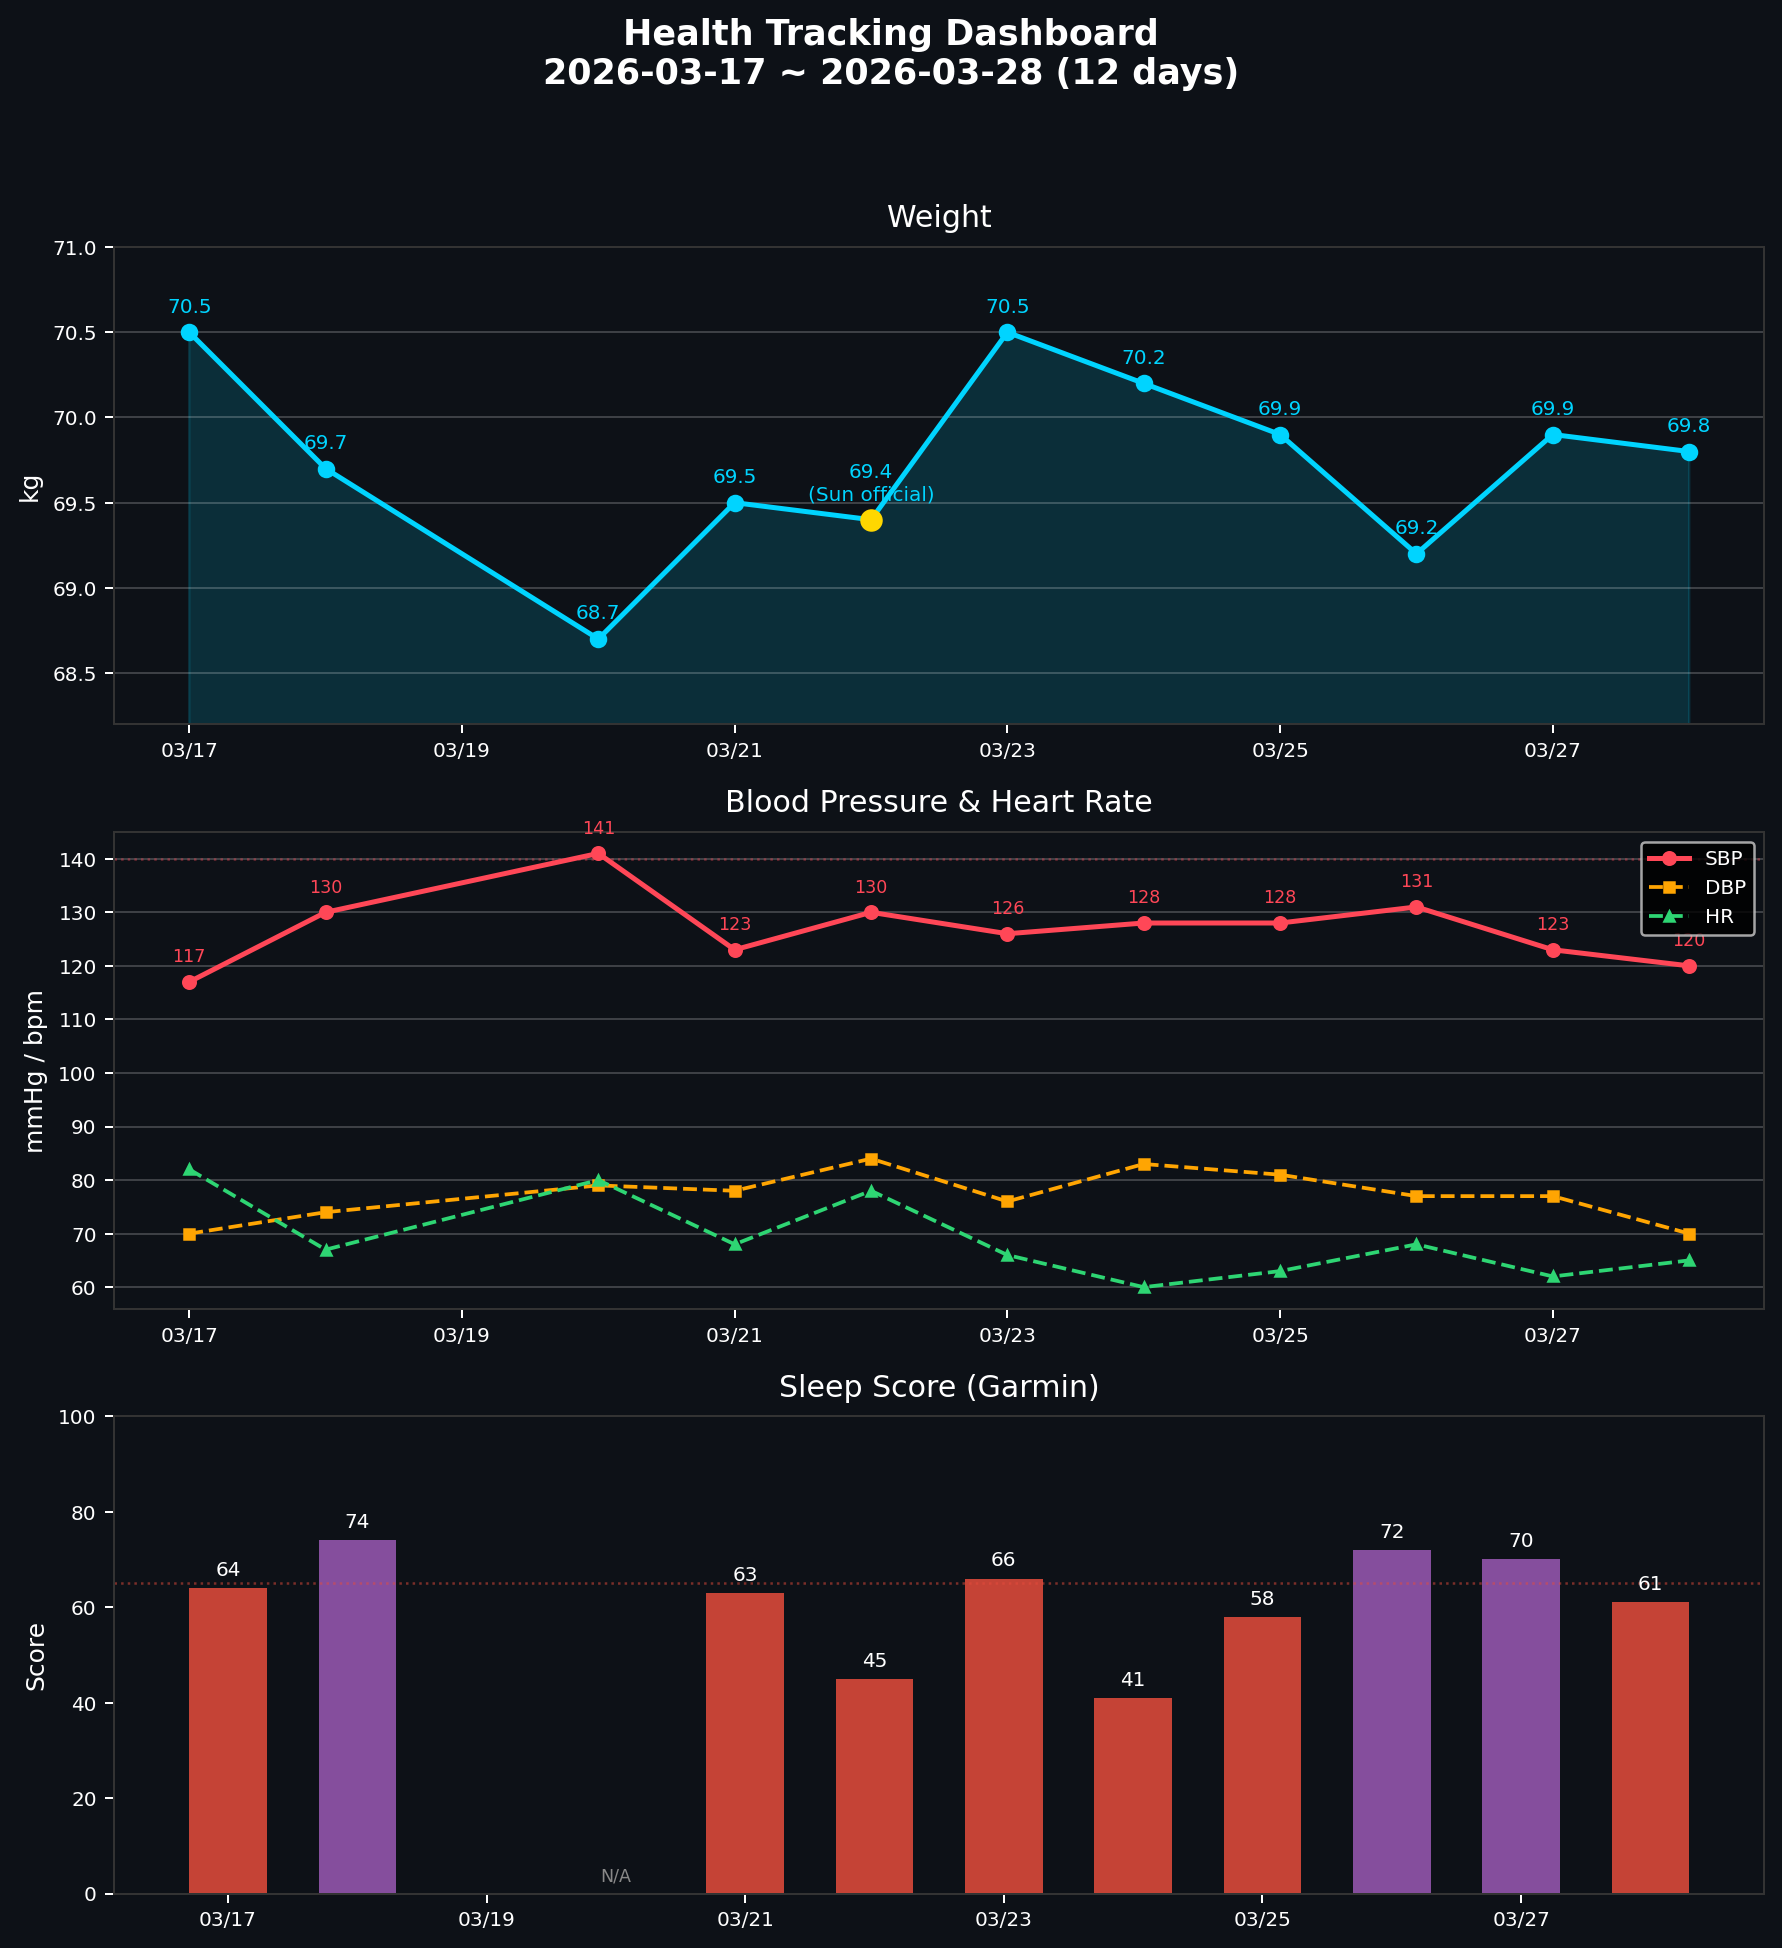
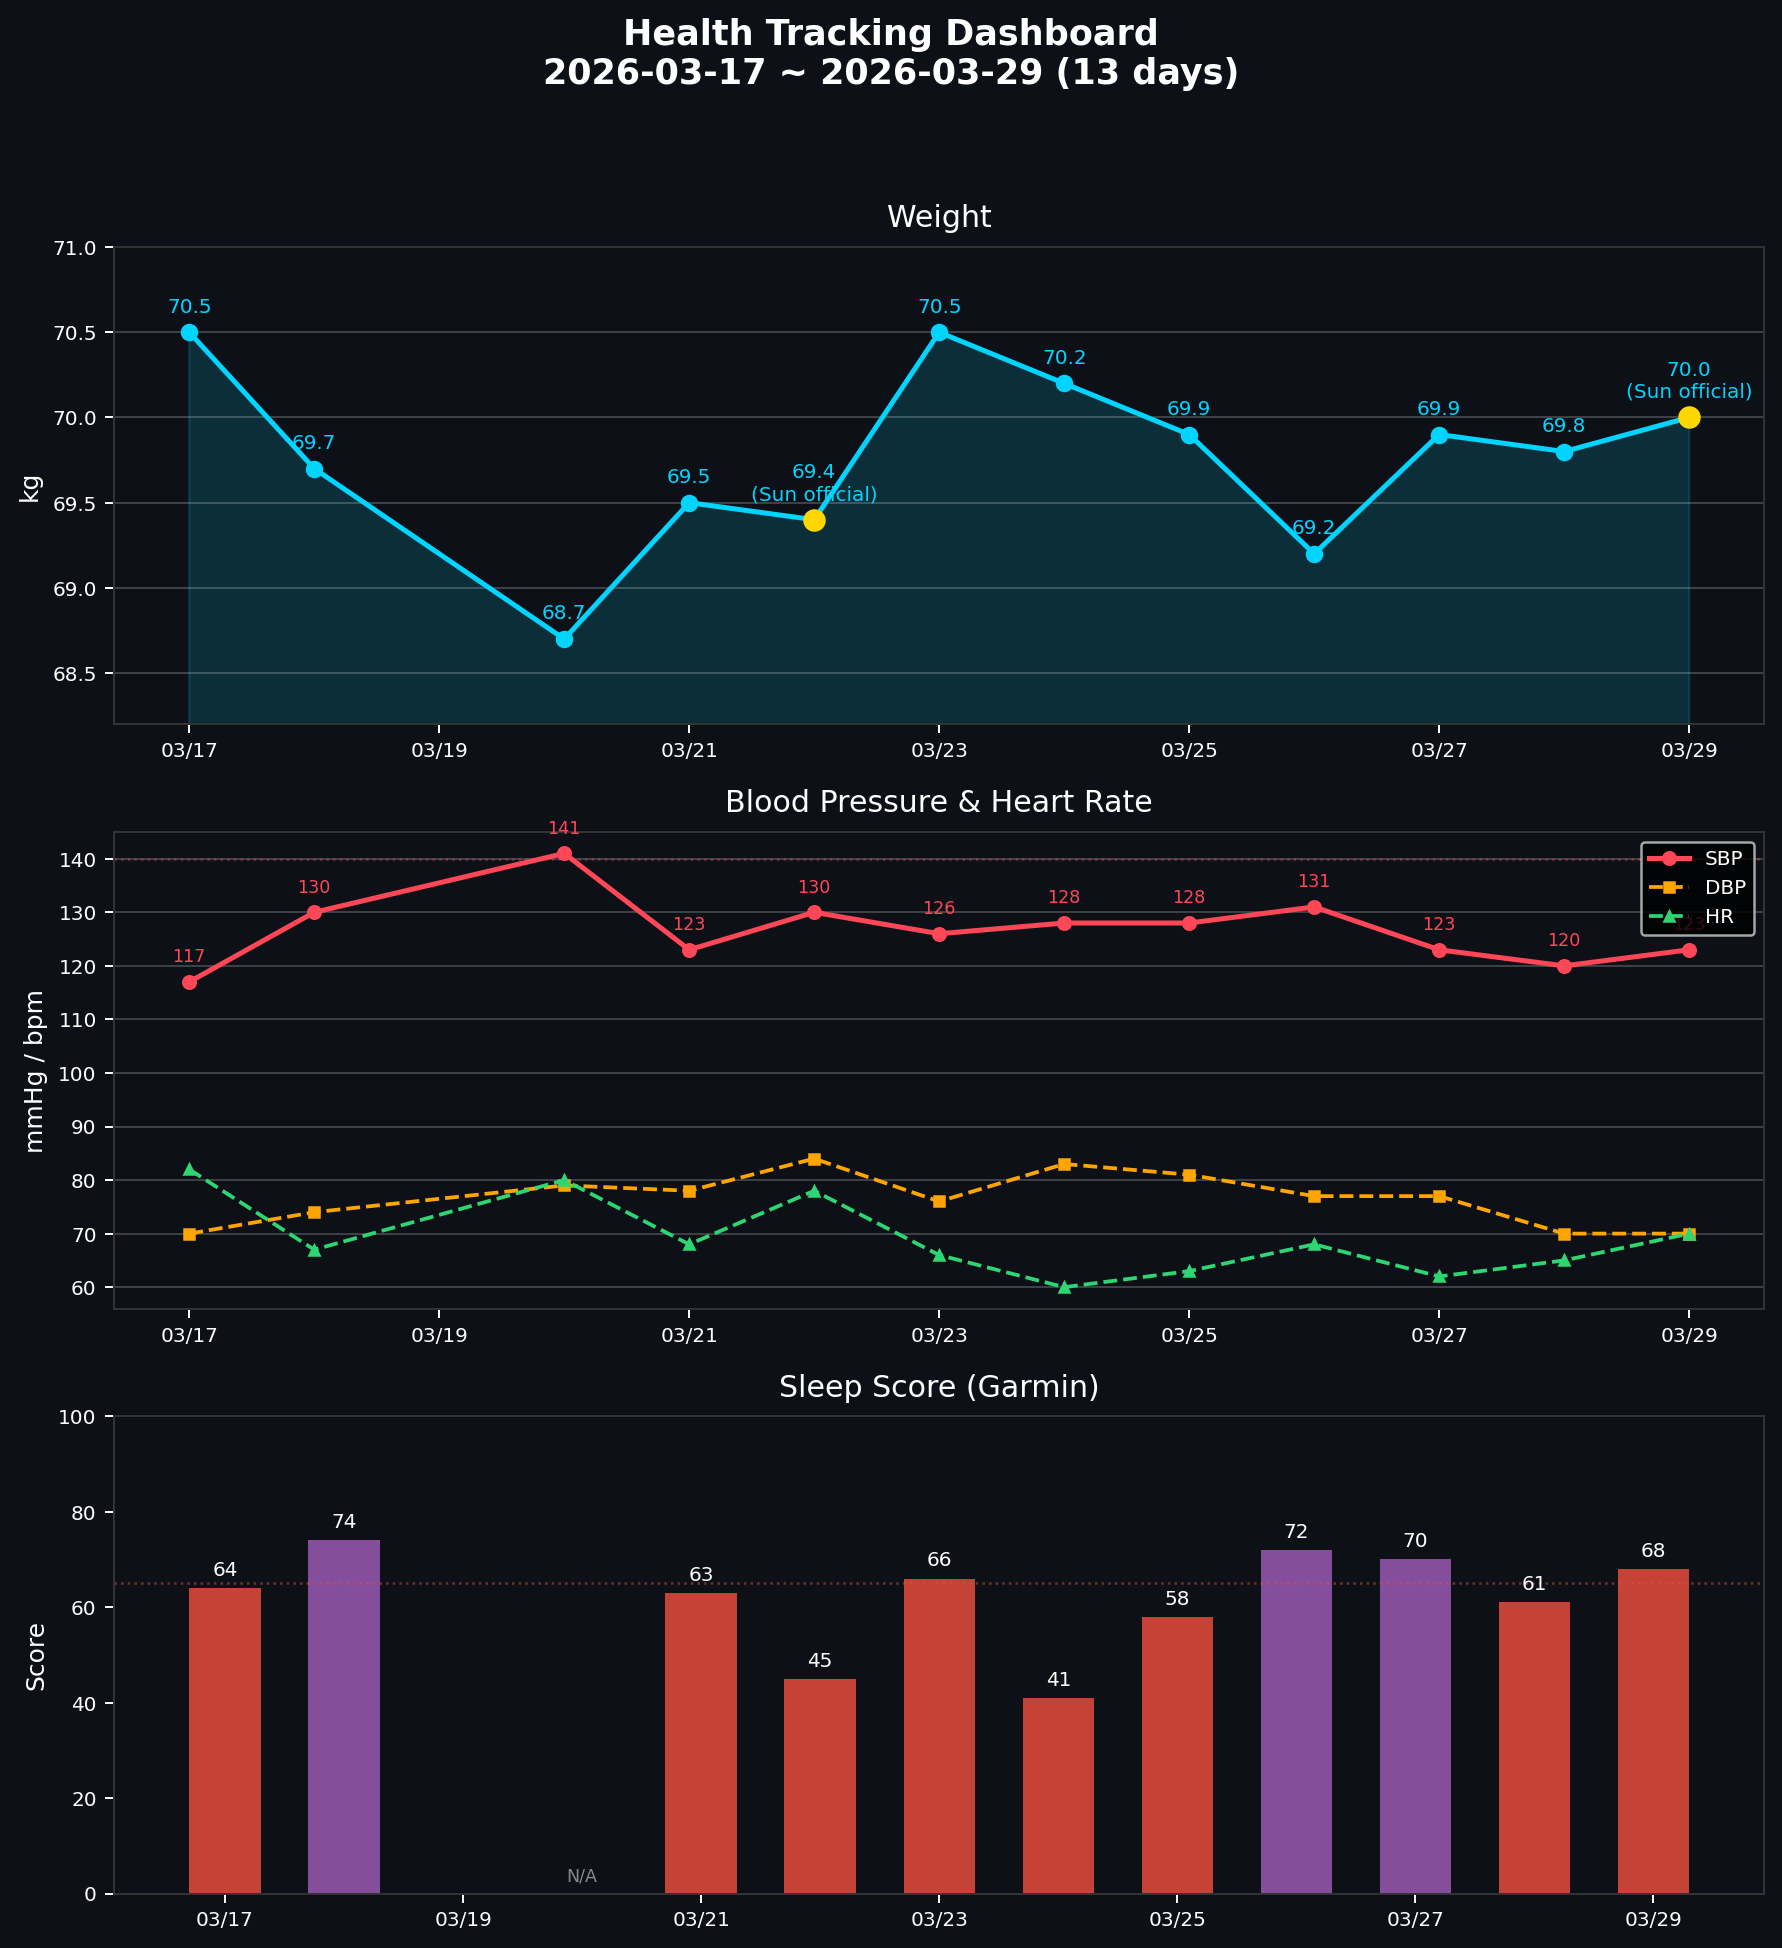
daily health check-in 2026-03-29

diff --git a/reviews/weekly/2026-W13.md b/reviews/weekly/2026-W13.md
@@ -21,11 +21,11 @@
 
 | 一 | 二 | 三 | 四 | 五 | 六 | 日 |
 |----|----|----|----|----|----|-----|
-| 70.5 | | 69.9 | 69.2 | 69.9 | 69.8 | |
+| 70.5 | | 69.9 | 69.2 | 69.9 | 69.8 | 70.0 |
 
-**週日正式值：** _____ kg
+**週日正式值：** 70.0 kg
 **上週日正式值：** 69.4 kg
-**變化：** _____ kg
+**變化：** +0.6 kg
 
 ---
 
@@ -39,9 +39,9 @@
 | 03/26 (四) | 131 | 77 | 68 |
 | 03/27 (五) | 123 | 77 | 62 |
 | 03/28 (六) | 120 | 70 | 65 |
-| 03/29 (日) | | | |
+| 03/29 (日) | 123 | 70 | 70 |
 
-**本週平均：** 126 / 76 mmHg，心率 65 bpm
+**本週平均：** 125 / 74 mmHg，心率 66 bpm
 
 ---
 
@@ -55,10 +55,10 @@
 | 03/26 (四) | 22:21 | 05:02 | 2（原因不明） | 72 | 25 | 3 |
 | 03/27 (五) | 22:04 | 03:59 | 1（原因不明） | 70 | 41 | 4 |
 | 03/28 (六) | 22:17 | 04:04 | 1 次 | 61 | 36 | 3 |
-| 03/29 (日) | | | | | | |
+| 03/29 (日) | 23:43 | 05:41 | 1（N/A） | 68 | 35 | 3 |
 
-**Sleep Score 週均：** 65.4 / 100
-**Body Battery 週均：** 29.8
+**Sleep Score 週均：** 65.8 / 100
+**Body Battery 週均：** 30.7
 **主觀恢復感週均：** 3.0 / 5
 **連續 < 65 天數：** 3（03/25 58, 03/28 61, 跳過 03/24 無數據）
 **22:30 前就寢天數：** 5 / 5（有紀錄的天數全部 22:30 前就寢）
@@ -74,11 +74,11 @@
 | 全身肌肉痠痛（DOMS） | 2 | 2 | → | 03/23 瑜伽課後，03/25 延續 |
 | 左右手臂 DOMS | 2 | 3 | → | 03/26-03/27 延遲性肌肉痠痛 |
 | 左膏肓痠痛 | 2 | 1 | → | 03/26-03/27 殘餘，維持低強度 |
-| 左手腕不舒服 | 3 | 3 | →（跨週延續） | 上週累計 8+ 天，03/28 仍酸緊 |
-| 左手肘不舒服 | 3 | 3 | →（跨週延續） | 上週累計 4+ 天，03/28 仍酸緊 |
+| 左手腕不舒服 | 4 | 3 | →（跨週延續） | 上週累計 8+ 天，03/29 仍酸緊 |
+| 左手肘不舒服 | 4 | 3 | →（跨週延續） | 上週累計 4+ 天，03/29 仍酸緊 |
 
-**反覆出現（≥ 3 天）：** 左手腕、左手肘（本週第 3 天）
-**跨週延續：** 左手腕（累計 8+ 天非清）、左手肘（累計 4+ 天非清）→ **強烈建議預約物理治療師評估**
+**反覆出現（≥ 3 天）：** 左手腕、左手肘（本週第 4 天）
+**跨週延續：** 左手腕（累計 9+ 天非清）、左手肘（累計 5+ 天非清）→ **強烈建議預約物理治療師評估**
 
 ---
 

diff --git a/reviews/daily/2026-03-29.md b/reviews/daily/2026-03-29.md
@@ -1,0 +1,59 @@
+# 晨間健康紀錄 — 2026-03-29
+
+*3 分鐘。起床後立即完成。記錄，不分析。*
+
+---
+
+## 體重
+
+**今日：70.0 kg**
+
+*每週日早晨為正式紀錄（排尿後、進食前）。其他日可選填。*
+
+---
+
+## 血壓（晨間）
+
+*起床後 1 小時內，上完廁所、進食前。坐下安靜 5 分鐘，連量兩次取第二次。*
+
+| 次數 | 收縮壓 | 舒張壓 | 心率 |
+|------|--------|--------|------|
+| 第一次 | 131 | 75 | 75 |
+| 第二次 | 123 | 70 | 70 |
+
+---
+
+## 睡眠狀態
+
+**實際就寢：** 23:43
+**實際起床：** 05:41
+**中途醒來：** 次數：1 / 原因：N/A
+**Garmin Sleep Score：** 68 / 100
+**Garmin Body Battery 起床值：** 35
+**主觀恢復感：** 3 / 5（1=極度疲憊, 5=精力充沛）
+
+*Sleep Score < 65 或 Body Battery < 50 連續三天 → 重新檢視睡眠修復方案。*
+
+---
+
+## 身體信號
+
+*任何張力、疼痛、疲勞、異常 — 或「清」。記位置、性質、強度。*
+
+| 部位 | 性質 | 強度 (0-10) |
+|------|------|-------------|
+| 左手腕 | 酸緊 | 3 |
+| 左手肘 | 酸緊 | 3 |
+
+---
+
+## 今日計畫速記
+
+- [ ] 飲水：1500cc / 2.5L（17:00 前完成主要量）
+- [ ] 補充品：魚油
+- [ ] 運動：無（Body Battery 35，恢復日）
+- [ ] 活動度/伸展：全身伸展
+
+---
+
+*Filed: reviews/daily/2026-03-29.md*
